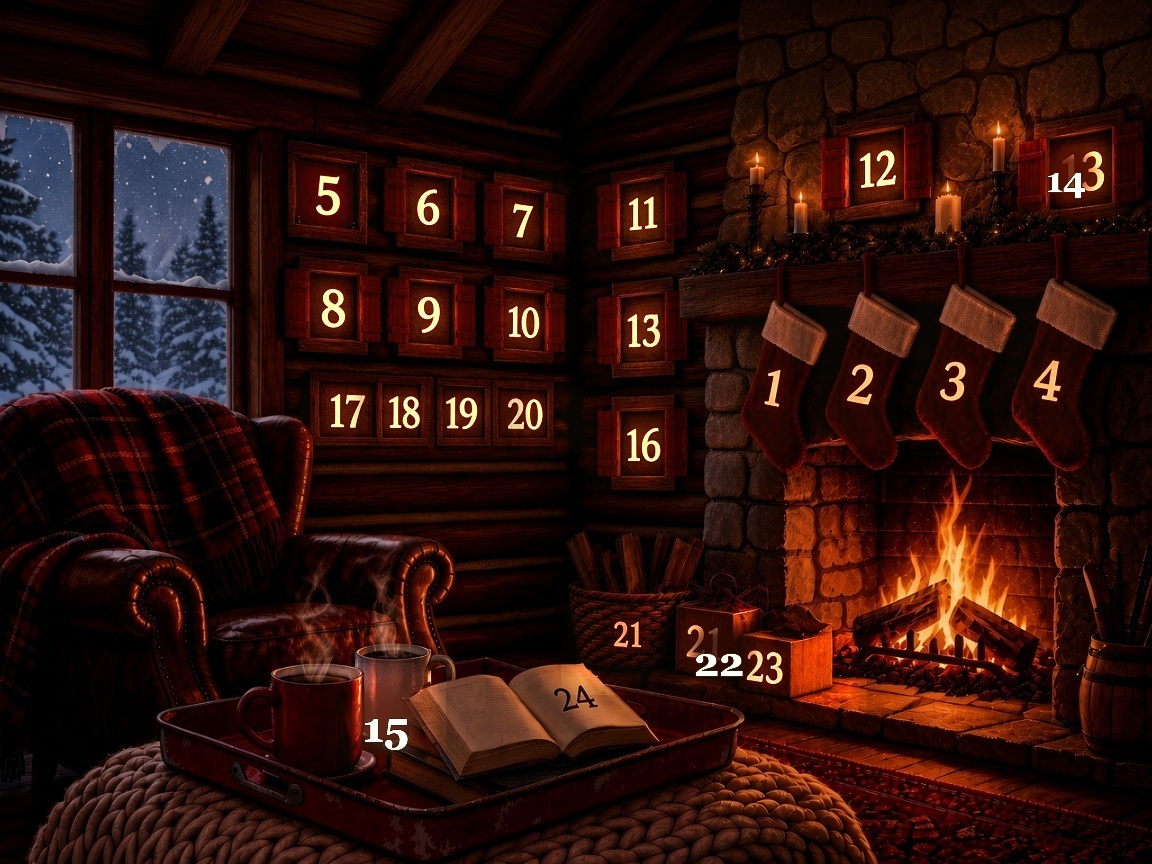
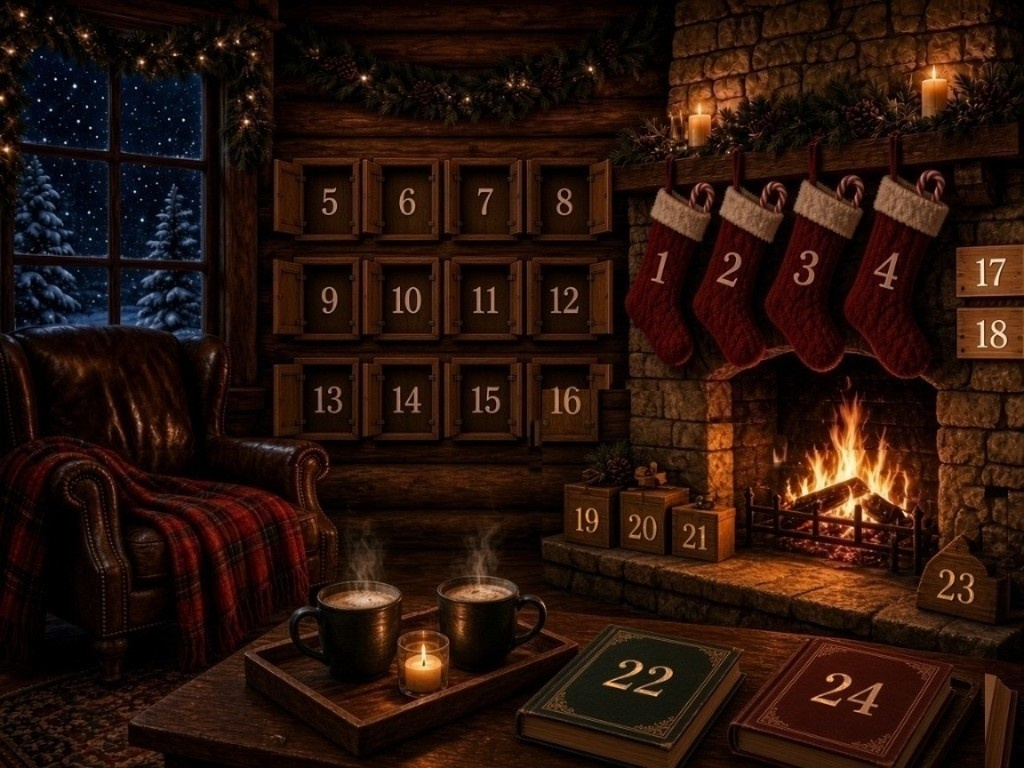
Align Christmas Magic hotspots and open art with the cabin scene.
Update festive closed/open images, remapped day hotspots and paste sizes, and document the live designs in the README.

diff --git a/public/app.js b/public/app.js
@@ -50,14 +50,16 @@ const OPEN_ART = {
   festive: {
     closed: DESIGN_ART.festive,
     open: DESIGN_ART.festiveOpen,
-    widthMul: 1.35,
-    heightMul: 1.35,
-    yNudge: 0.02,
+    widthMul: 1.25,
+    heightMul: 1.25,
+    yNudge: 0,
     byDay: {
-      1: { widthMul: 1.12, heightMul: 1.08 },
-      2: { widthMul: 1.12, heightMul: 1.08 },
-      3: { widthMul: 1.12, heightMul: 1.08 },
-      4: { widthMul: 1.12, heightMul: 1.08 },
+      /* stockings + candy cane */
+      1: { widthMul: 1.15, heightMul: 1.12 },
+      2: { widthMul: 1.15, heightMul: 1.12 },
+      3: { widthMul: 1.15, heightMul: 1.12 },
+      4: { widthMul: 1.15, heightMul: 1.12 },
+      /* wall cubbies 5–16 */
       5: { widthMul: 1.18, heightMul: 1.22 },
       6: { widthMul: 1.18, heightMul: 1.22 },
       7: { widthMul: 1.18, heightMul: 1.22 },
@@ -70,14 +72,16 @@ const OPEN_ART = {
       14: { widthMul: 1.18, heightMul: 1.22 },
       15: { widthMul: 1.18, heightMul: 1.22 },
       16: { widthMul: 1.18, heightMul: 1.22 },
-      17: { widthMul: 1.18, heightMul: 1.22 },
-      18: { widthMul: 1.18, heightMul: 1.22 },
-      19: { widthMul: 1.18, heightMul: 1.22 },
-      20: { widthMul: 1.18, heightMul: 1.22 },
-      21: { widthMul: 1.18, heightMul: 1.22 },
-      22: { widthMul: 1.18, heightMul: 1.22 },
-      23: { widthMul: 1.18, heightMul: 1.22 },
-      24: { widthMul: 1.55, heightMul: 1.35, yNudge: -0.05 }
+      /* bright plaques / house */
+      17: { widthMul: 1.3, heightMul: 1.3 },
+      18: { widthMul: 1.3, heightMul: 1.3 },
+      23: { widthMul: 1.0, heightMul: 1.0 },
+      /* hearth boxes + books — click/paste 1:1 with hotspot */
+      19: { widthMul: 1.0, heightMul: 1.0 },
+      20: { widthMul: 1.0, heightMul: 1.0 },
+      21: { widthMul: 1.0, heightMul: 1.0 },
+      22: { widthMul: 1.0, heightMul: 1.0 },
+      24: { widthMul: 1.0, heightMul: 1.0 }
     }
   }
 };
@@ -159,30 +163,30 @@ async function applyOpenedSceneArt() {
 /** Percent boxes: { left, top, w, h } — aligned to numbered objects on each design image. */
 const HOTSPOTS = {
   festive: {
-    1: { left: 61.9, top: 35.8, w: 7.2, h: 16.5 },
-    2: { left: 70.4, top: 35.2, w: 7.2, h: 16.5 },
-    3: { left: 78.9, top: 34.8, w: 7.2, h: 16.5 },
-    4: { left: 86.9, top: 34.8, w: 7.2, h: 16.5 },
-    5: { left: 25.3, top: 18.6, w: 7.4, h: 8.8 },
-    6: { left: 33.8, top: 19.1, w: 7.4, h: 8.8 },
-    7: { left: 42.3, top: 20.1, w: 7.4, h: 8.8 },
-    8: { left: 25.8, top: 31.1, w: 7.4, h: 8.8 },
-    9: { left: 33.8, top: 32.1, w: 7.4, h: 8.8 },
-    10: { left: 42.3, top: 32.6, w: 7.4, h: 8.8 },
-    11: { left: 50.9, top: 20.9, w: 7.2, h: 9.2 },
-    12: { left: 70.9, top: 15.4, w: 8.2, h: 9.2 },
-    13: { left: 50.9, top: 33.9, w: 7.2, h: 9.2 },
-    14: { left: 88.8, top: 15.4, w: 7.5, h: 9.2 },
-    15: { left: 29.0, top: 78.0, w: 9.0, h: 11.0 },
-    16: { left: 50.9, top: 46.9, w: 7.2, h: 9.2 },
-    17: { left: 25.5, top: 44.6, w: 6.0, h: 7.8 },
-    18: { left: 32.0, top: 44.6, w: 6.0, h: 7.8 },
-    19: { left: 38.5, top: 44.6, w: 6.0, h: 7.8 },
-    20: { left: 45.0, top: 44.6, w: 6.0, h: 7.8 },
-    21: { left: 49.5, top: 69.5, w: 8.0, h: 10.0 },
-    22: { left: 58.4, top: 70.2, w: 8.2, h: 10.5 },
-    23: { left: 66.4, top: 72.8, w: 8.2, h: 10.5 },
-    24: { left: 43.0, top: 75.5, w: 10.0, h: 11.0 }
+    1: { left: 60.8, top: 22.0, w: 7.6, h: 19.5 },
+    2: { left: 68.6, top: 21.5, w: 7.6, h: 19.5 },
+    3: { left: 76.4, top: 21.0, w: 7.6, h: 19.5 },
+    4: { left: 84.2, top: 20.5, w: 7.6, h: 19.5 },
+    5: { left: 27.78, top: 17.94, w: 9.11, h: 13.31 },
+    6: { left: 34.72, top: 17.94, w: 9.11, h: 13.31 },
+    7: { left: 41.66, top: 17.94, w: 9.11, h: 13.31 },
+    8: { left: 48.6, top: 17.94, w: 9.11, h: 13.31 },
+    9: { left: 27.78, top: 32.18, w: 9.11, h: 13.31 },
+    10: { left: 34.72, top: 32.18, w: 9.11, h: 13.31 },
+    11: { left: 41.66, top: 32.18, w: 9.11, h: 13.31 },
+    12: { left: 48.6, top: 32.18, w: 9.11, h: 13.31 },
+    13: { left: 27.78, top: 46.41, w: 9.11, h: 13.31 },
+    14: { left: 34.72, top: 46.41, w: 9.11, h: 13.31 },
+    15: { left: 41.66, top: 46.41, w: 9.11, h: 13.31 },
+    16: { left: 48.6, top: 46.41, w: 9.11, h: 13.31 },
+    17: { left: 93.0, top: 29.0, w: 5.5, h: 8.8 },
+    18: { left: 93.0, top: 39.0, w: 5.5, h: 8.8 },
+    19: { left: 54.51, top: 63.19, w: 5.9, h: 7.87 },
+    20: { left: 61.28, top: 63.89, w: 5.9, h: 8.1 },
+    21: { left: 68.23, top: 66.2, w: 5.21, h: 6.94 },
+    22: { left: 48.61, top: 82.18, w: 20.83, h: 15.97 },
+    23: { left: 89.41, top: 68.06, w: 5.56, h: 11.34 },
+    24: { left: 71.01, top: 83.33, w: 20.14, h: 16.2 }
   },
   elegant: {
     /* Pixel-fitted to each window's glowing glass pane */

diff --git a/README.md b/README.md
@@ -2,15 +2,17 @@
 
 A personal advent calendar you can make for someone, then share with a link. Each of the 24 doors sits on an illustrated December scene and opens onto a wish, a question, or a small prompt.
 
+Live: [https://adventcalendar-for-you.vercel.app](https://adventcalendar-for-you.vercel.app)
+
 ## Features
 
 - Personalise a calendar with the recipient's name and your name.
 - Choose a design, then preview the scene before creating the link.
 - Two designs:
-  - **Christmas Magic**, a cabin fireplace with doors on stockings, walls, and books.
-  - **Winter Elegance**, a snowy house with a glowing window for each day.
+  - **Christmas Magic** (red), a cabin fireplace with doors on stockings, wall cubbies, hearth boxes, and books.
+  - **Winter Elegance** (blue), a snowy house with a glowing window for each day.
 - Share the calendar through a unique link.
-- Opened days reveal the matching open-day artwork on that scene.
+- Opened days swap in matching open-day artwork from the same scene positions.
 - Save door-opening progress against an email address, and return to it later.
 - Ask for confirmation before a future door is opened early.
 
@@ -28,6 +30,17 @@ Calendars and progress are stored in Neon Postgres.
 6. Open the doors and read the messages.
 
 The email address identifies saved progress. It is not a verified sign-in, and nothing is sent to that address.
+
+## Designs and open-day art
+
+Closed and open scene images live in `public/designs/`:
+
+| Design | Closed | Open |
+| --- | --- | --- |
+| Christmas Magic | `festive.jpg` | `festive-open.jpg` |
+| Winter Elegance | `elegant.jpg` | `elegant-open.jpg` |
+
+Clickable areas are defined as percent hotspots in `public/app.js`. When a day is opened, the matching patch from the open image is composed onto the closed scene at that hotspot.
 
 ## Built with
 
@@ -77,6 +90,8 @@ Keep your database connection string private. Do not commit it to the repository
 ## Deployment
 
 The app is hosted on Vercel, with a connected Neon database.
+
+Production URL: [https://adventcalendar-for-you.vercel.app](https://adventcalendar-for-you.vercel.app)
 
 The server expects this environment variable:
 
